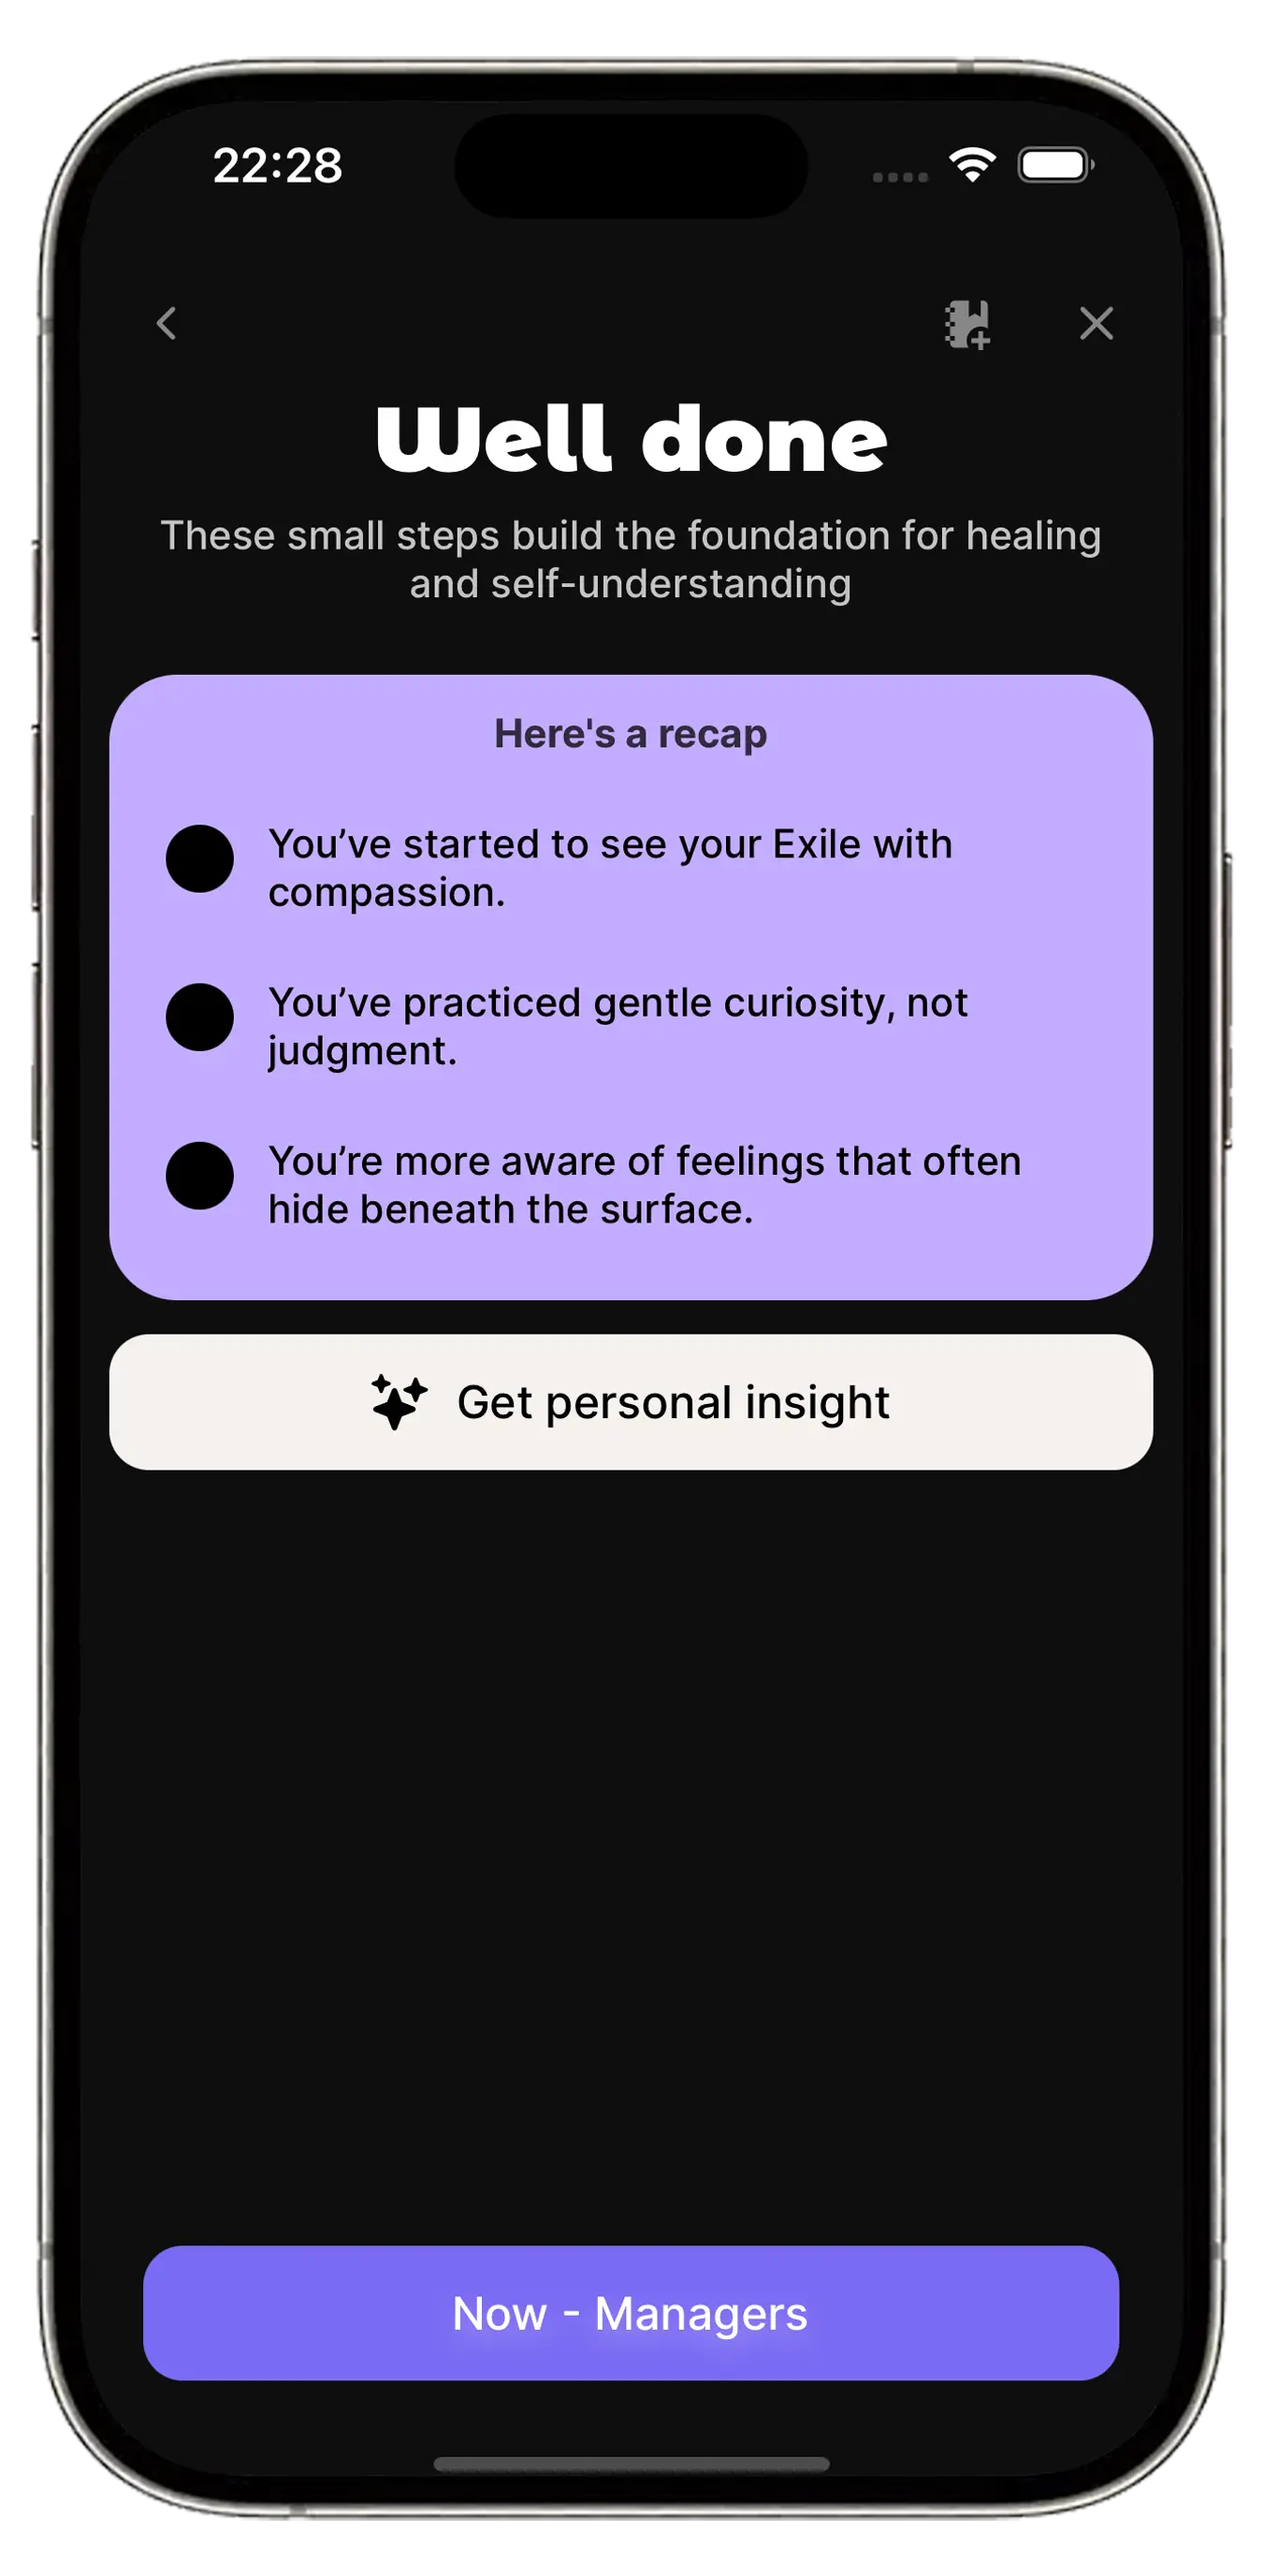
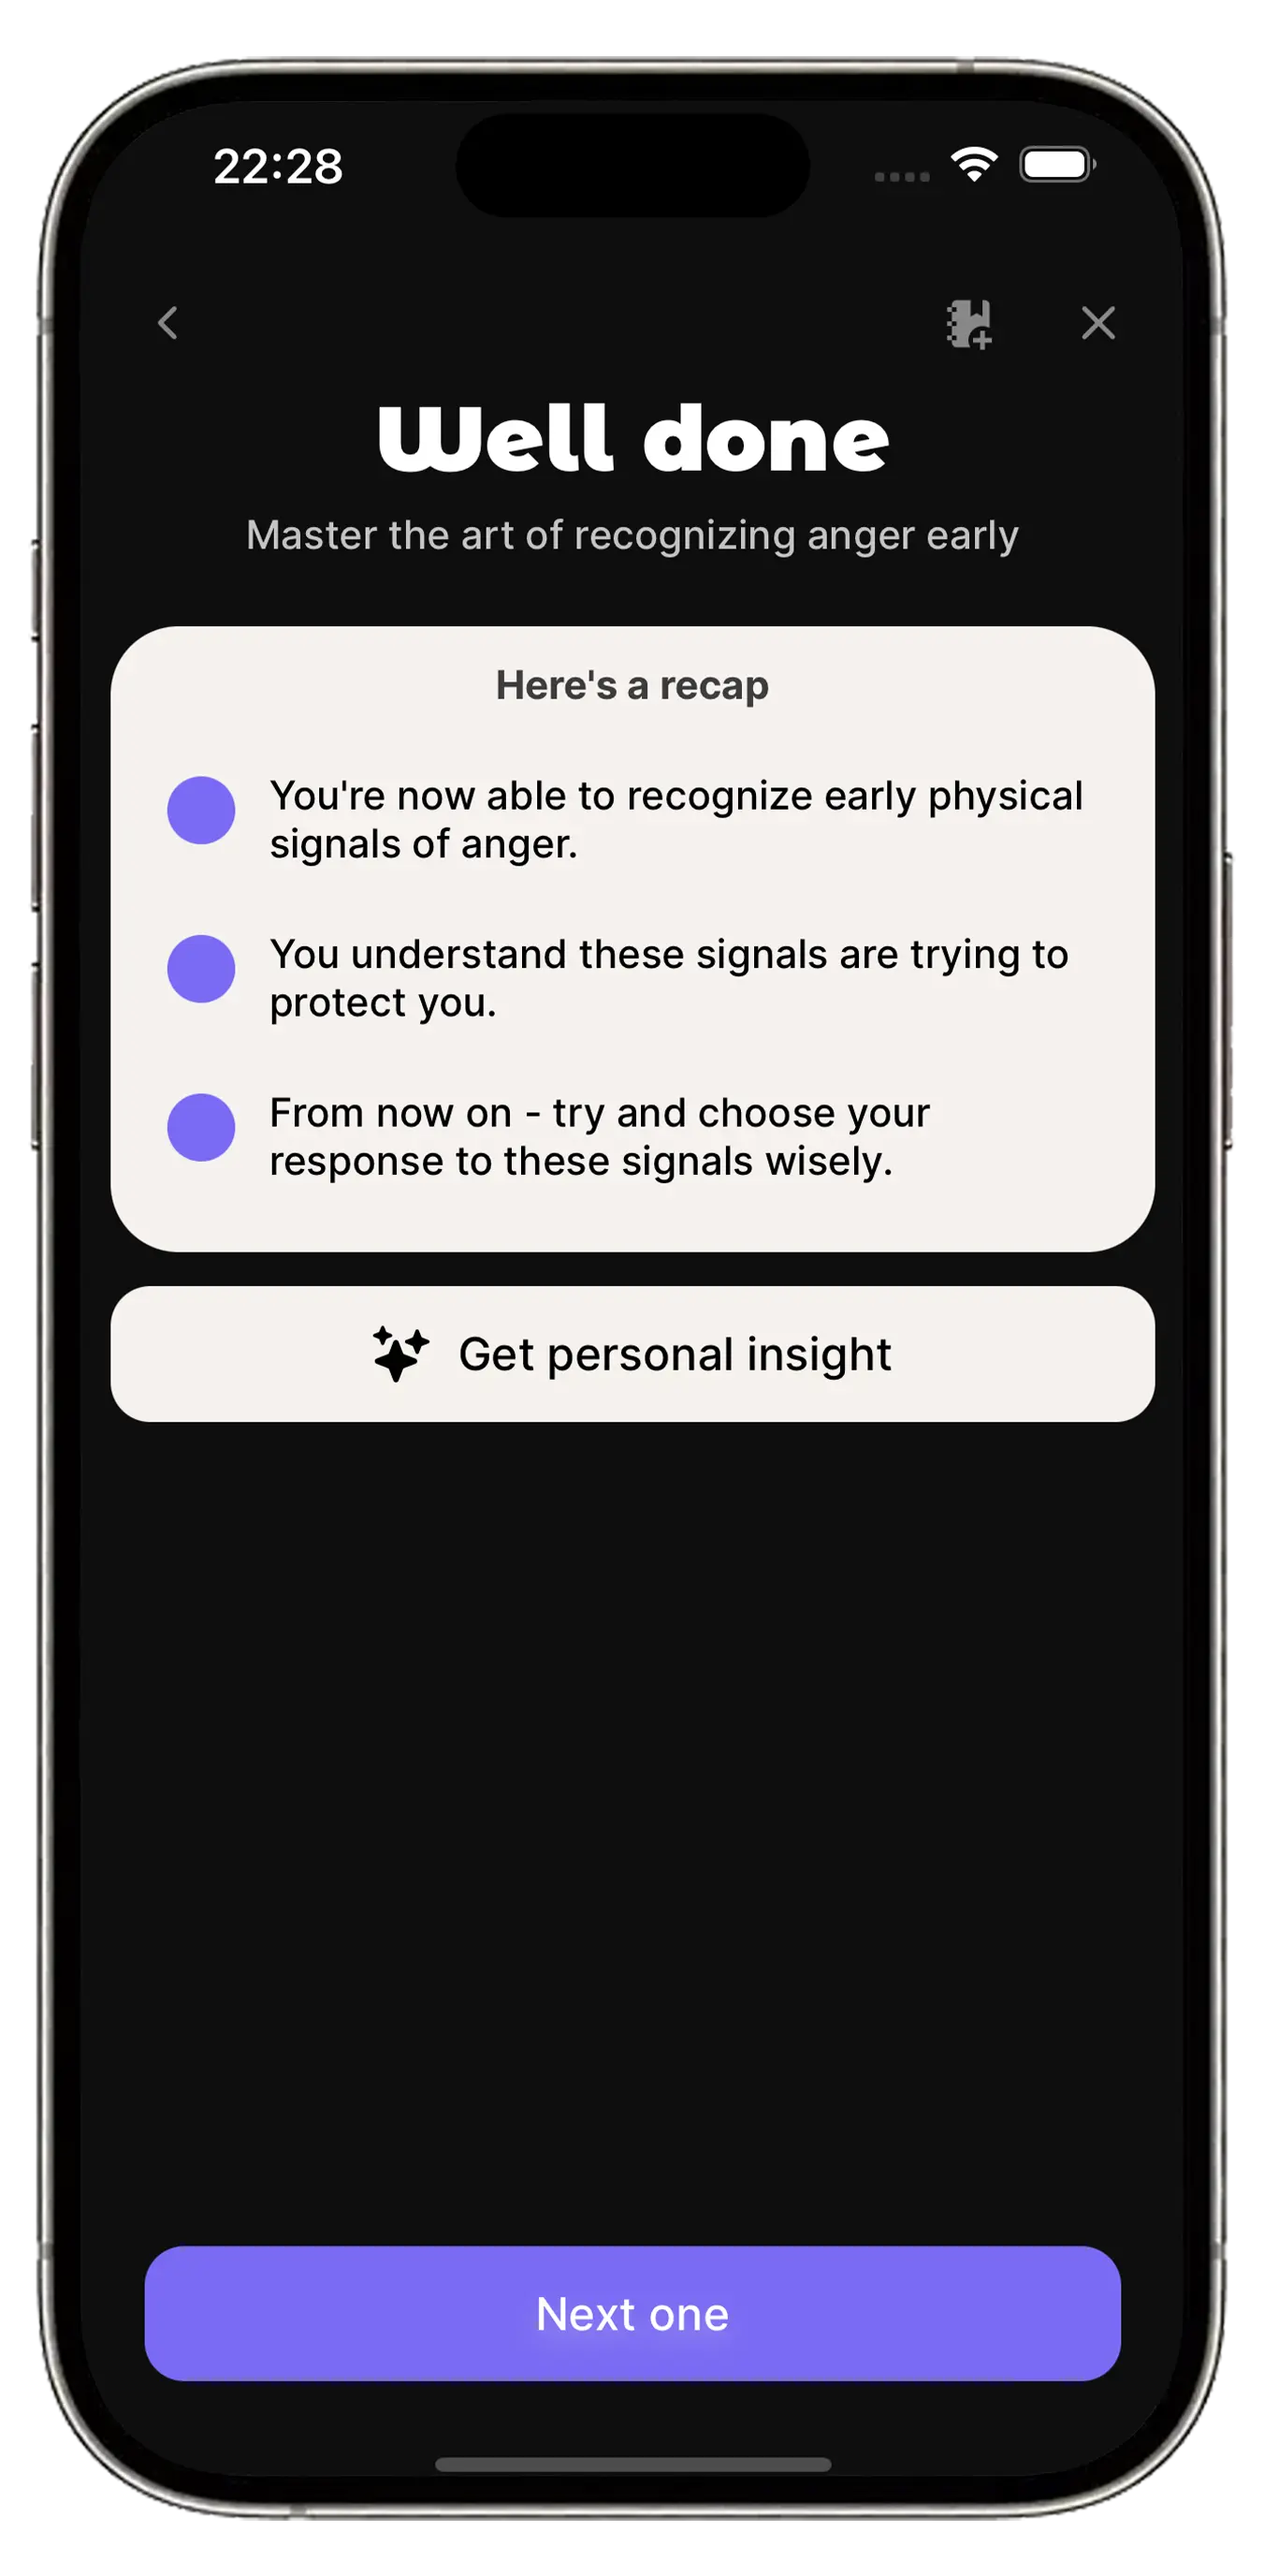
update showcase photos

Changed region(s): [[0.0622, 0.1562, 0.9326, 0.5938], [0.342, 0.875, 0.6528, 0.9062]]

diff --git a/src/components/home/structureShowcase/index.tsx b/src/components/home/structureShowcase/index.tsx
@@ -8,7 +8,7 @@ import { useEffect, useState } from "react"
 import StructureRow from "./StructureRow"
 
 const SCREENSHOTS = [
-  "/images/showcase/well-being.webp",
+  "/images/showcase/ritual.webp",
   "/images/showcase/reflect.webp",
   "/images/showcase/grow.webp",
 ]
@@ -198,7 +198,9 @@ const SctructureShowcase = () => {
           <>
             <h3 className="mb-4 flex-wrap font-montserratAlt text-12xl font-bold leading-[1]">
               Track, Reflect &{" "}
-              <span className="font-black text-green-default">Grow</span>
+              <span className="font-black text-green-default">
+                Get daily Rituals
+              </span>
             </h3>
             <p className="">
               All in one app <br />
